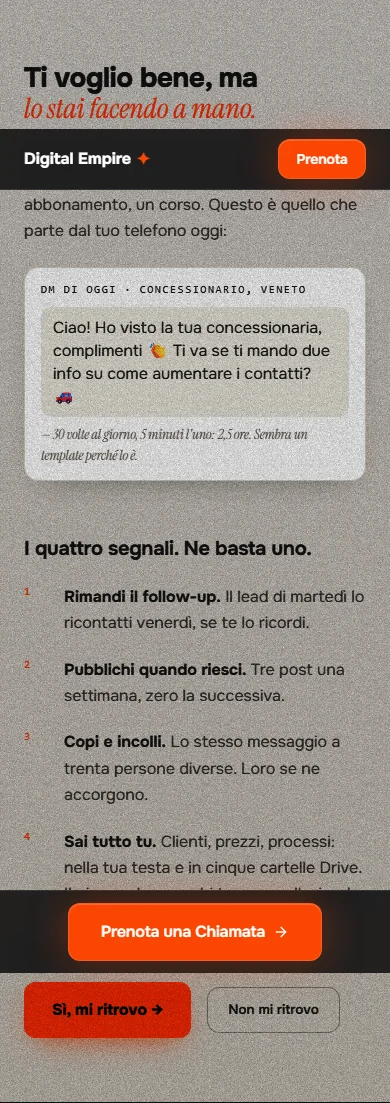
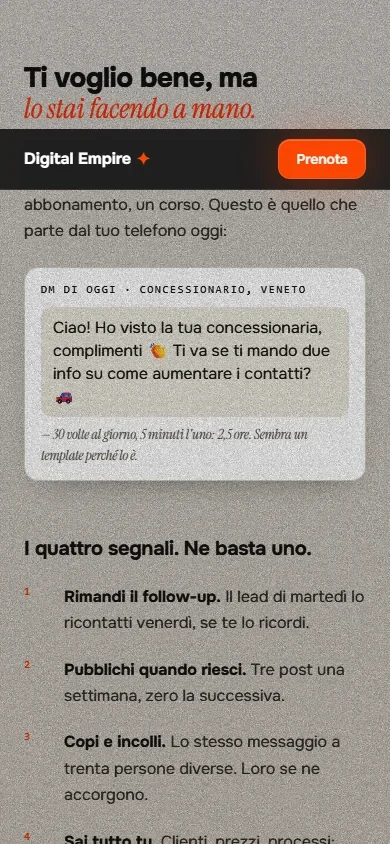
feat(agency-landing): F2 solo aggiunte — TUTTE le sezioni del Dossier 38 v2: D3 fascia-manifesto, D4 competitor, D5 specchio con foto, A05 prima/dopo, A07 scala, A08 cartella, A09 guardalo girare, A10+A20 due tipi, A11 PDF nelle prove, A12 rail sistemi, A14/A15/A22 scheletri (null), A16 mappa, A17 t

diff --git a/agency-empire-landing/src/app/page.tsx b/agency-empire-landing/src/app/page.tsx
@@ -34,6 +34,23 @@ import { CosaOttieni } from "@/sezioni-aggiunte/cosa-ottieni";
 // Sezioni AGGIUNTE il 2026-09-13 (Dossier 38 v2, Atto I): la firma (null senza ritratto) e il rail dei fatti
 import { Firma } from "@/sezioni-aggiunte/firma";
 import { RailFatti } from "@/sezioni-aggiunte/rail-fatti";
+// Sezioni AGGIUNTE il 2026-09-13 pomeriggio (Dossier 38 v2 §F + §I, ordine di Max «tutte»): solo inserimenti
+import { CompetitorVivo } from "@/sezioni-aggiunte/competitor-vivo";
+import { PrimaDopo } from "@/sezioni-aggiunte/prima-dopo";
+import { Scala } from "@/sezioni-aggiunte/scala";
+import { Cartella } from "@/sezioni-aggiunte/cartella";
+import { GuardaloGirare } from "@/sezioni-aggiunte/guardalo-girare";
+import { DueTipi } from "@/sezioni-aggiunte/due-tipi";
+import { RailSistemi } from "@/sezioni-aggiunte/rail-sistemi";
+import { FasciaManifesto } from "@/sezioni-aggiunte/fascia-manifesto";
+import { Stanza } from "@/sezioni-aggiunte/stanza";
+import { DietroLeQuinte } from "@/sezioni-aggiunte/dietro-le-quinte";
+import { Mappa } from "@/sezioni-aggiunte/mappa";
+import { Tessera } from "@/sezioni-aggiunte/tessera";
+import { QuantoCosta } from "@/sezioni-aggiunte/quanto-costa";
+import { SeNonFunziona } from "@/sezioni-aggiunte/se-non-funziona";
+import { FaqContratto } from "@/sezioni-aggiunte/faq-contratto";
+import { CodaLegale } from "@/sezioni-aggiunte/coda-legale";
 import { StickyCTA } from "@/components/sticky-cta";
 import { Header } from "@/components/header";
 import { Results } from "@/components/sections/results";
@@ -53,40 +70,56 @@ export default function Home() {
       <Problems />
       <Specchio />
       <Competitors />
+      <CompetitorVivo />
       <ListenUp />
+      <PrimaDopo />
       <div className="divider-silver-orange" aria-hidden="true" />
       <Hierarchy />
       <Pillars />
       <FlowFramework />
+      <Scala />
       <div className="divider-silver-orange" aria-hidden="true" />
       <SystemsShowcase />
+      <Cartella />
       <OutreachDeep />
       <OutreachInside />
+      <GuardaloGirare />
       <ContentDeep />
       <ContentOutput />
+      <DueTipi />
       <BrainDeep />
       <SecondBrainInside />
       <Results />
       <ProveVere />
+      <RailSistemi />
       <NoFluff />
       <ToolStack />
       <div className="divider-silver-orange" aria-hidden="true" />
       <PowerDeck />
+      <FasciaManifesto />
       <div className="divider-silver-orange" aria-hidden="true" />
       <WhoGuides />
+      <Stanza />
       <BuilderNotTrainer />
+      <DietroLeQuinte />
+      <Mappa />
       <Bonuses />
       <PricingROI />
+      <Tessera />
       <Clarity />
+      <QuantoCosta />
       <MyPromise />
+      <SeNonFunziona />
       <Objections />
       <FAQ />
+      <FaqContratto />
       <div className="divider-silver-orange" aria-hidden="true" />
       <CosaOttieni />
       <FinalCTA />
       <FinalOffer />
       <AboutStory />
 
+      <CodaLegale />
       {/* Footer Minimal Empire */}
       <footer className="bg-ink-2 py-20 border-t border-white/5 text-center">
         <div className="max-w-5xl mx-auto px-6 flex flex-col items-center gap-8">

diff --git a/agency-empire-landing/src/app/aggiunte-c.css b/agency-empire-landing/src/app/aggiunte-c.css
@@ -86,7 +86,7 @@
 .vivo .mappa-card span { display: block; margin-top: 8px; color: var(--sv-silver-dim); }
 .vivo .mappa-card--qui { border-color: var(--sv-orange); box-shadow: 0 0 0 1px rgba(251, 70, 4, .35), 0 24px 50px -30px rgba(251, 70, 4, .7); }
 .vivo .mappa-qui {
-  position: absolute; left: 50%; top: -14px; transform: translateX(-50%);
+  position: absolute; left: 50%; top: -34px; transform: translateX(-50%);
   display: inline-flex; align-items: center; gap: 6px; white-space: nowrap;
   padding: 5px 12px; border-radius: 999px; background: var(--sv-orange); color: #000;
   font-family: var(--font-mono, ui-monospace, monospace); font-size: var(--fs-mono); letter-spacing: .16em; text-transform: uppercase; font-weight: 700;
@@ -172,13 +172,13 @@
    ============================================================ */
 /* l'elmo intero a 280 px è alto 498 px: per stare nel tetto dei 600 la sezione respira un po' meno (solo lei) */
 .vivo .se-non-funziona.sv-section { padding: 64px 0; }
-.vivo .snf-grid { display: grid; grid-template-columns: 1fr auto; gap: 56px; align-items: center; }
+.vivo .snf-grid { display: grid; grid-template-columns: minmax(0, 1fr) 280px; gap: 56px; align-items: center; }
 .vivo .snf-quadri { display: grid; grid-template-columns: 1fr 1fr; gap: 16px; margin-top: 28px; }
 .vivo .snf-quadro { border: 1px solid rgba(28, 28, 28, .16); border-radius: 16px; padding: 22px 22px 20px; background: #fff; box-shadow: 0 14px 34px -26px rgba(0, 0, 0, .5); }
 .vivo .snf-quadro .sv-eyebrow { display: block; color: var(--sv-orange); }
 .vivo .snf-quadro p { margin-top: 10px; }
 .vivo .snf-quadro--allora { border-color: rgba(251, 70, 4, .55); }
-.vivo .snf-foto { width: min(280px, 100%); border: 1px solid rgba(28, 28, 28, .16); box-shadow: 0 18px 40px -28px rgba(0, 0, 0, .6); margin: 0 auto; }
+.vivo .snf-foto { width: min(280px, 100%); margin: 0 auto; } .vivo .snf-foto .foto-intera { border: 1px solid rgba(28, 28, 28, .16); box-shadow: 0 18px 40px -28px rgba(0, 0, 0, .6); } .vivo .snf-foto img { display: block; width: 100%; height: auto; }
 .vivo .snf-foto figcaption { padding: 10px 12px 12px; color: #4a4640; font-size: var(--fs-small); line-height: 1.5; font-family: var(--font-accent), Georgia, serif; font-style: italic; }
 @media (max-width: 860px) {
   .vivo .snf-grid { grid-template-columns: 1fr; gap: 36px; }

diff --git a/agency-empire-landing/src/app/aggiunte-b.css b/agency-empire-landing/src/app/aggiunte-b.css
@@ -85,7 +85,7 @@
 /* ============================================================================
    A12 · RAIL DEI SISTEMI IN PRODUZIONE (ink) — nastro lento 70 s, doppio elenco, fermo in reduced-motion
    e al passaggio del mouse. Figure INTERE: i PDF a 190 px di larghezza; gli screenshot mobile (390×1911,
-   390×1362, 390×1103) a 190 px sarebbero alti fino a 931 px e sfonderebbero i 520 → tetto di altezza 340 px,
+   390×1362, 390×1103) a 190 px sarebbero alti fino a 931 px e sfonderebbero i 520 → tetto di altezza 320 px,
    larghezza in proporzione (mai cover, mai tagli). Dubbio riportato nel rapporto.
    ============================================================================ */
 .vivo .rs.sv-section { padding: 56px 0; }
@@ -95,8 +95,8 @@
 @keyframes rs-scorri { to { transform: translateX(-50%); } }
 .vivo .rs-item { flex: none; }
 .vivo .rs-fig { margin: 0; }
-.vivo .rs-fig .foto-intera { border: 1px solid var(--sv-hair); background: #0a0a0a; width: max-content; max-width: 190px; }
-.vivo .rs-fig .foto-intera img { width: auto; height: auto; max-width: 190px; max-height: 340px; }
+.vivo .rs-fig .foto-intera { border: 1px solid var(--sv-hair); background: #0a0a0a; width: 190px; }
+.vivo .rs-fig .foto-intera img { display: block; width: 100%; height: auto; }
 .vivo .rs-fig figcaption { margin-top: 10px; max-width: 190px; }
 .vivo .rs-fig figcaption b { display: block; font-size: var(--fs-small); font-weight: 700; color: #fff; line-height: 1.3; }
 .vivo .rs-fig figcaption span { display: block; margin-top: 3px; font-family: var(--font-mono, ui-monospace, monospace); font-size: var(--fs-mono); letter-spacing: .12em; text-transform: uppercase; color: var(--sv-silver-dim); }
@@ -106,6 +106,6 @@
 }
 @media (max-width: 640px) {
   .vivo .rs-rail { gap: 24px; }
-  .vivo .rs-fig .foto-intera img { max-width: 150px; max-height: 300px; }
+  .vivo .rs-fig .foto-intera img { width: 150px; max-width: 150px; }
   .vivo .rs-fig .foto-intera, .vivo .rs-fig figcaption { max-width: 150px; }
 }

diff --git a/agency-empire-landing/src/sezioni-aggiunte/rail-sistemi.tsx b/agency-empire-landing/src/sezioni-aggiunte/rail-sistemi.tsx
@@ -2,7 +2,7 @@
    Ink. Nastro CSS lento (70 s, doppio elenco per il loop, fermo con prefers-reduced-motion e al passaggio del
    mouse) di CINQUE figure verticali INTERE (§14): due pagine vere di PDF PreventivoForge (intestazione del
    cliente ritagliata alla fonte, in public/aura/) e tre screenshot nostri del sito. Larghezza 190 px per i PDF;
-   gli screenshot mobile hanno un tetto d'altezza (340 px) perché a 190 px di larghezza sarebbero alti fino
+   gli screenshot mobile hanno un tetto d'altezza (320 px) perché a 190 px di larghezza sarebbero alti fino
    a 931 px — mai tagliati, mai cover. Nessuna CTA. 0 KB di JS. CSS: src/app/aggiunte-b.css (.rs-*). */
 
 type Figura = { src: string; width: number; height: number; alt: string; nome: string; ruolo: string };
@@ -27,7 +27,7 @@ const SISTEMI: Figura[] = [
   {
     src: "/aura/shot-hero-mobile.webp",
     width: 390,
-    height: 1911,
+    height: 844,
     alt: "Screenshot da telefono del sito dell'agenzia: la prima schermata, intera",
     nome: "Sito agency",
     ruolo: "hero",
@@ -35,7 +35,7 @@ const SISTEMI: Figura[] = [
   {
     src: "/aura/shot-specchio-mobile.webp",
     width: 390,
-    height: 1103,
+    height: 844,
     alt: "Screenshot da telefono del sito dell'agenzia: la sezione Specchio, intera",
     nome: "Sito agency",
     ruolo: "specchio",
@@ -43,7 +43,7 @@ const SISTEMI: Figura[] = [
   {
     src: "/aura/shot-prenota-mobile.webp",
     width: 390,
-    height: 1362,
+    height: 844,
     alt: "Screenshot da telefono della pagina /prenota/ dell'agenzia, intera",
     nome: "/prenota/",
     ruolo: "porta",

diff --git a/agency-empire-landing/src/app/aggiunte-a.css b/agency-empire-landing/src/app/aggiunte-a.css
@@ -56,13 +56,13 @@
 .vivo .fascia-manifesto .fm-velo {
   position: absolute; inset: 0;
   background:
-    radial-gradient(70% 90% at 50% 50%, rgba(4, 3, 2, 0.28) 0%, rgba(4, 3, 2, 0.58) 60%, rgba(4, 3, 2, 0.90) 100%),
-    linear-gradient(180deg, rgba(4, 3, 2, 0.82) 0%, rgba(4, 3, 2, 0.30) 22%, rgba(4, 3, 2, 0.30) 78%, rgba(4, 3, 2, 0.86) 100%);
+    radial-gradient(60% 80% at 50% 50%, rgba(4, 3, 2, 0.34) 0%, rgba(4, 3, 2, 0.22) 55%, rgba(4, 3, 2, 0.70) 100%),
+    linear-gradient(180deg, rgba(4, 3, 2, 0.55) 0%, rgba(4, 3, 2, 0.05) 25%, rgba(4, 3, 2, 0.05) 75%, rgba(4, 3, 2, 0.60) 100%);
 }
 .vivo .fascia-manifesto .fm-corpo { position: relative; z-index: 1; display: grid; gap: 14px; justify-items: center; text-align: center; }
 .vivo .fascia-manifesto .fm-corpo .sv-eyebrow { color: rgba(255, 255, 255, .78); }
-.vivo .fascia-manifesto .fm-h2 { max-width: 22ch; font-size: var(--fs-manifesto, clamp(34px, 5vw, 64px)); line-height: 1.02; letter-spacing: -.03em; }
-.vivo .fascia-manifesto .fm-h2 .sv-it { color: var(--sv-orange); }
+.vivo .fascia-manifesto .fm-h2 { max-width: 24ch; text-shadow: 0 2px 28px rgba(0,0,0,.75); font-size: var(--fs-manifesto, clamp(34px, 5vw, 64px)); line-height: 1.02; letter-spacing: -.03em; }
+.vivo .fascia-manifesto .fm-h2 .sv-it { color: #ffd9c6; display: block; }
 .vivo .fascia-manifesto .fm-giu {
   display: inline-flex; align-items: center; justify-content: center; width: 44px; height: 44px; margin-top: 4px;
   border: 1px solid rgba(255, 255, 255, .45); border-radius: 50%; color: #fff; font-size: 20px; line-height: 1;

diff --git a/agency-empire-landing/src/sezioni-aggiunte/se-non-funziona.tsx b/agency-empire-landing/src/sezioni-aggiunte/se-non-funziona.tsx
@@ -36,9 +36,11 @@ export function SeNonFunziona() {
             </div>
           </div>
 
-          <figure className="foto-intera snf-foto" style={{ aspectRatio: `${img.width}/${img.height}` }}>
-            {/* eslint-disable-next-line @next/next/no-img-element */}
-            <img src={img.src} width={img.width} height={img.height} alt={img.alt} loading="lazy" decoding="async" />
+          <figure className="snf-foto">
+            <div className="foto-intera" style={{ aspectRatio: `${img.width}/${img.height}` }}>
+              {/* eslint-disable-next-line @next/next/no-img-element */}
+              <img src={img.src} width={img.width} height={img.height} alt={img.alt} loading="lazy" decoding="async" />
+            </div>
             {didascalia && <figcaption>{didascalia}</figcaption>}
           </figure>
         </div>

diff --git a/agency-empire-landing/src/app/layout.tsx b/agency-empire-landing/src/app/layout.tsx
@@ -3,6 +3,9 @@ import { Onest, Instrument_Serif } from "next/font/google";
 import "./globals.css";
 import "./vivo.css"; // solo per le sezioni aggiunte: ogni regola è scopata sotto .vivo
 import "./aggiunte-hero.css"; // D1/D2/A02 (ordini di Max 13/09): classi nuove + la sola regola D2 sul padding dell'hero
+import "./aggiunte-a.css"; // Atto II/III (D3, D4, D5, A05, A07, A08)
+import "./aggiunte-b.css"; // Atto III/IV (A09, A10+A20, A11, A12)
+import "./aggiunte-c.css"; // Atto V/VI (A14-A22)
 import { SmoothScrollProvider } from "@/components/smooth-scroll-provider";
 
 const onest = Onest({

diff --git a/agency-empire-landing/src/lib/listino.ts b/agency-empire-landing/src/lib/listino.ts
@@ -18,7 +18,7 @@ export type Sistema = "outreach" | "content" | "brain" | "engine";
 
 /** "4.000 €" — formato italiano, senza decimali */
 export function eur(n: number): string {
-  return `${n.toLocaleString("it-IT", { maximumFractionDigits: 0 })} €`;
+  return `${n.toLocaleString("it-IT", { maximumFractionDigits: 0, useGrouping: "always" as unknown as boolean })} €`;
 }
 
 export const RISPARMIO_ENGINE = LISTINO.engineListino - LISTINO.engine;
